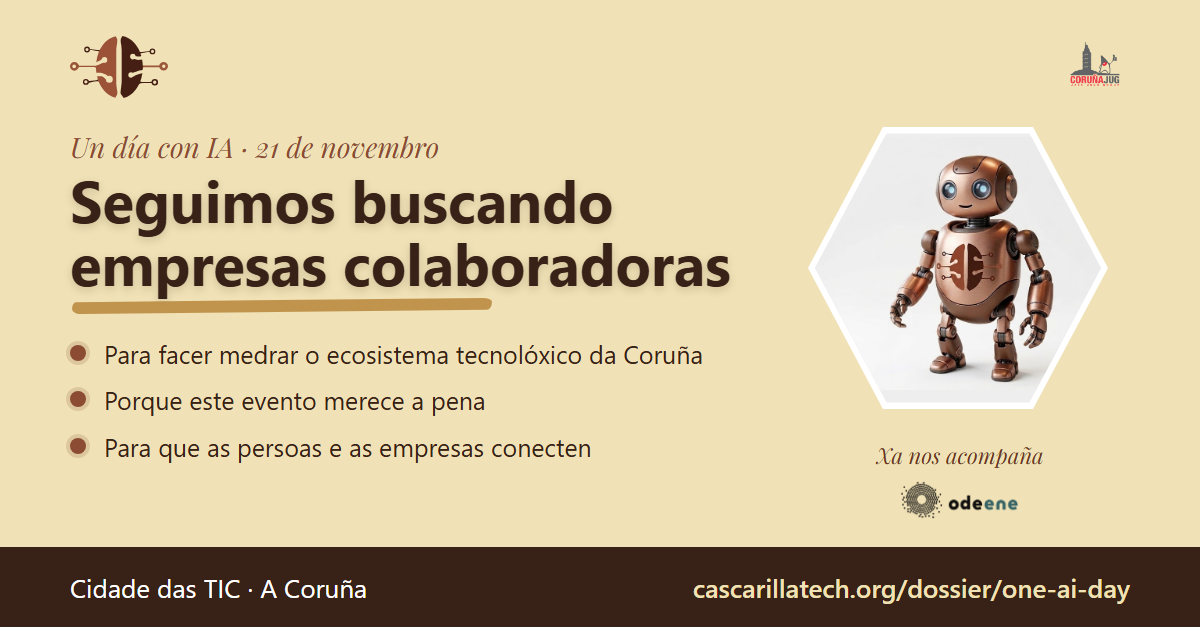
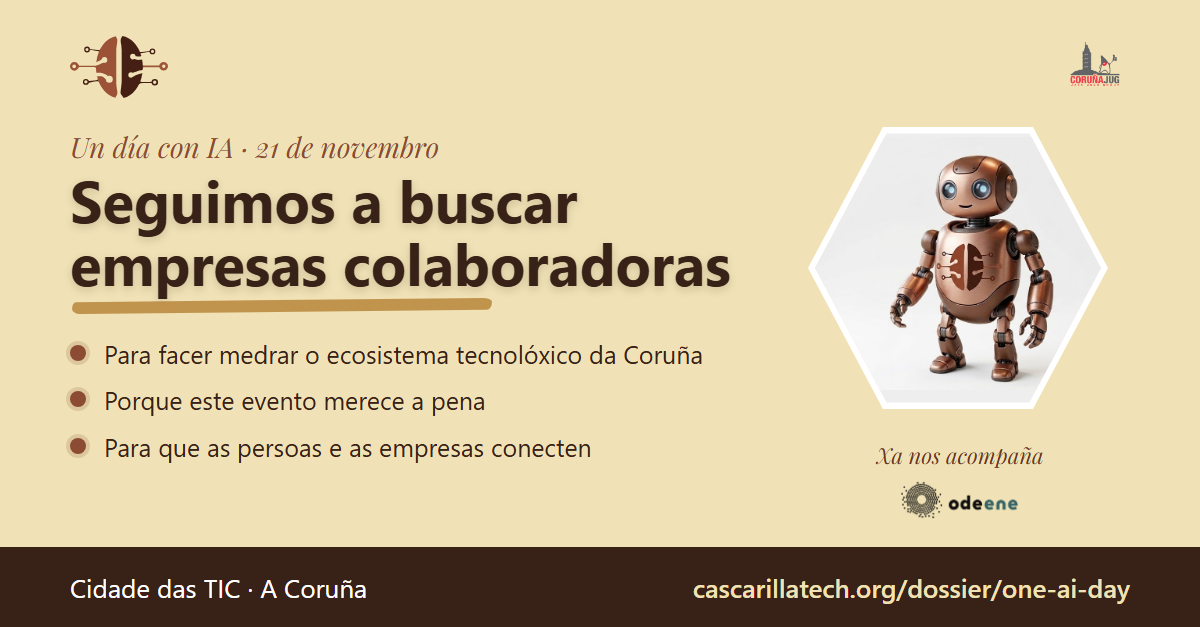
Imaxe LinkedIn gl: «Seguimos a buscar»

Changed region(s): [[0.2775, 0.2727, 0.5242, 0.3636]]

diff --git a/design/social/colaboradores-un-dia-con-ia-gl.html b/design/social/colaboradores-un-dia-con-ia-gl.html
@@ -31,7 +31,7 @@ footer b{color:#f0e2b6;font-weight:600}
   <img class="logo-ct" src="../../public/images/cascarillatech-logo.svg" alt="">
   <img class="logo-jug" src="../../public/images/poster/organizers/corunajug-logo.png" alt="">
   <p class="kicker">Un día con IA · 21 de novembro</p>
-  <h1>Seguimos buscando empresas colaboradoras</h1>
+  <h1>Seguimos a buscar empresas colaboradoras</h1>
   <div class="hl"></div>
   <ul>
     <li>Para facer medrar o ecosistema tecnolóxico da Coruña</li>
